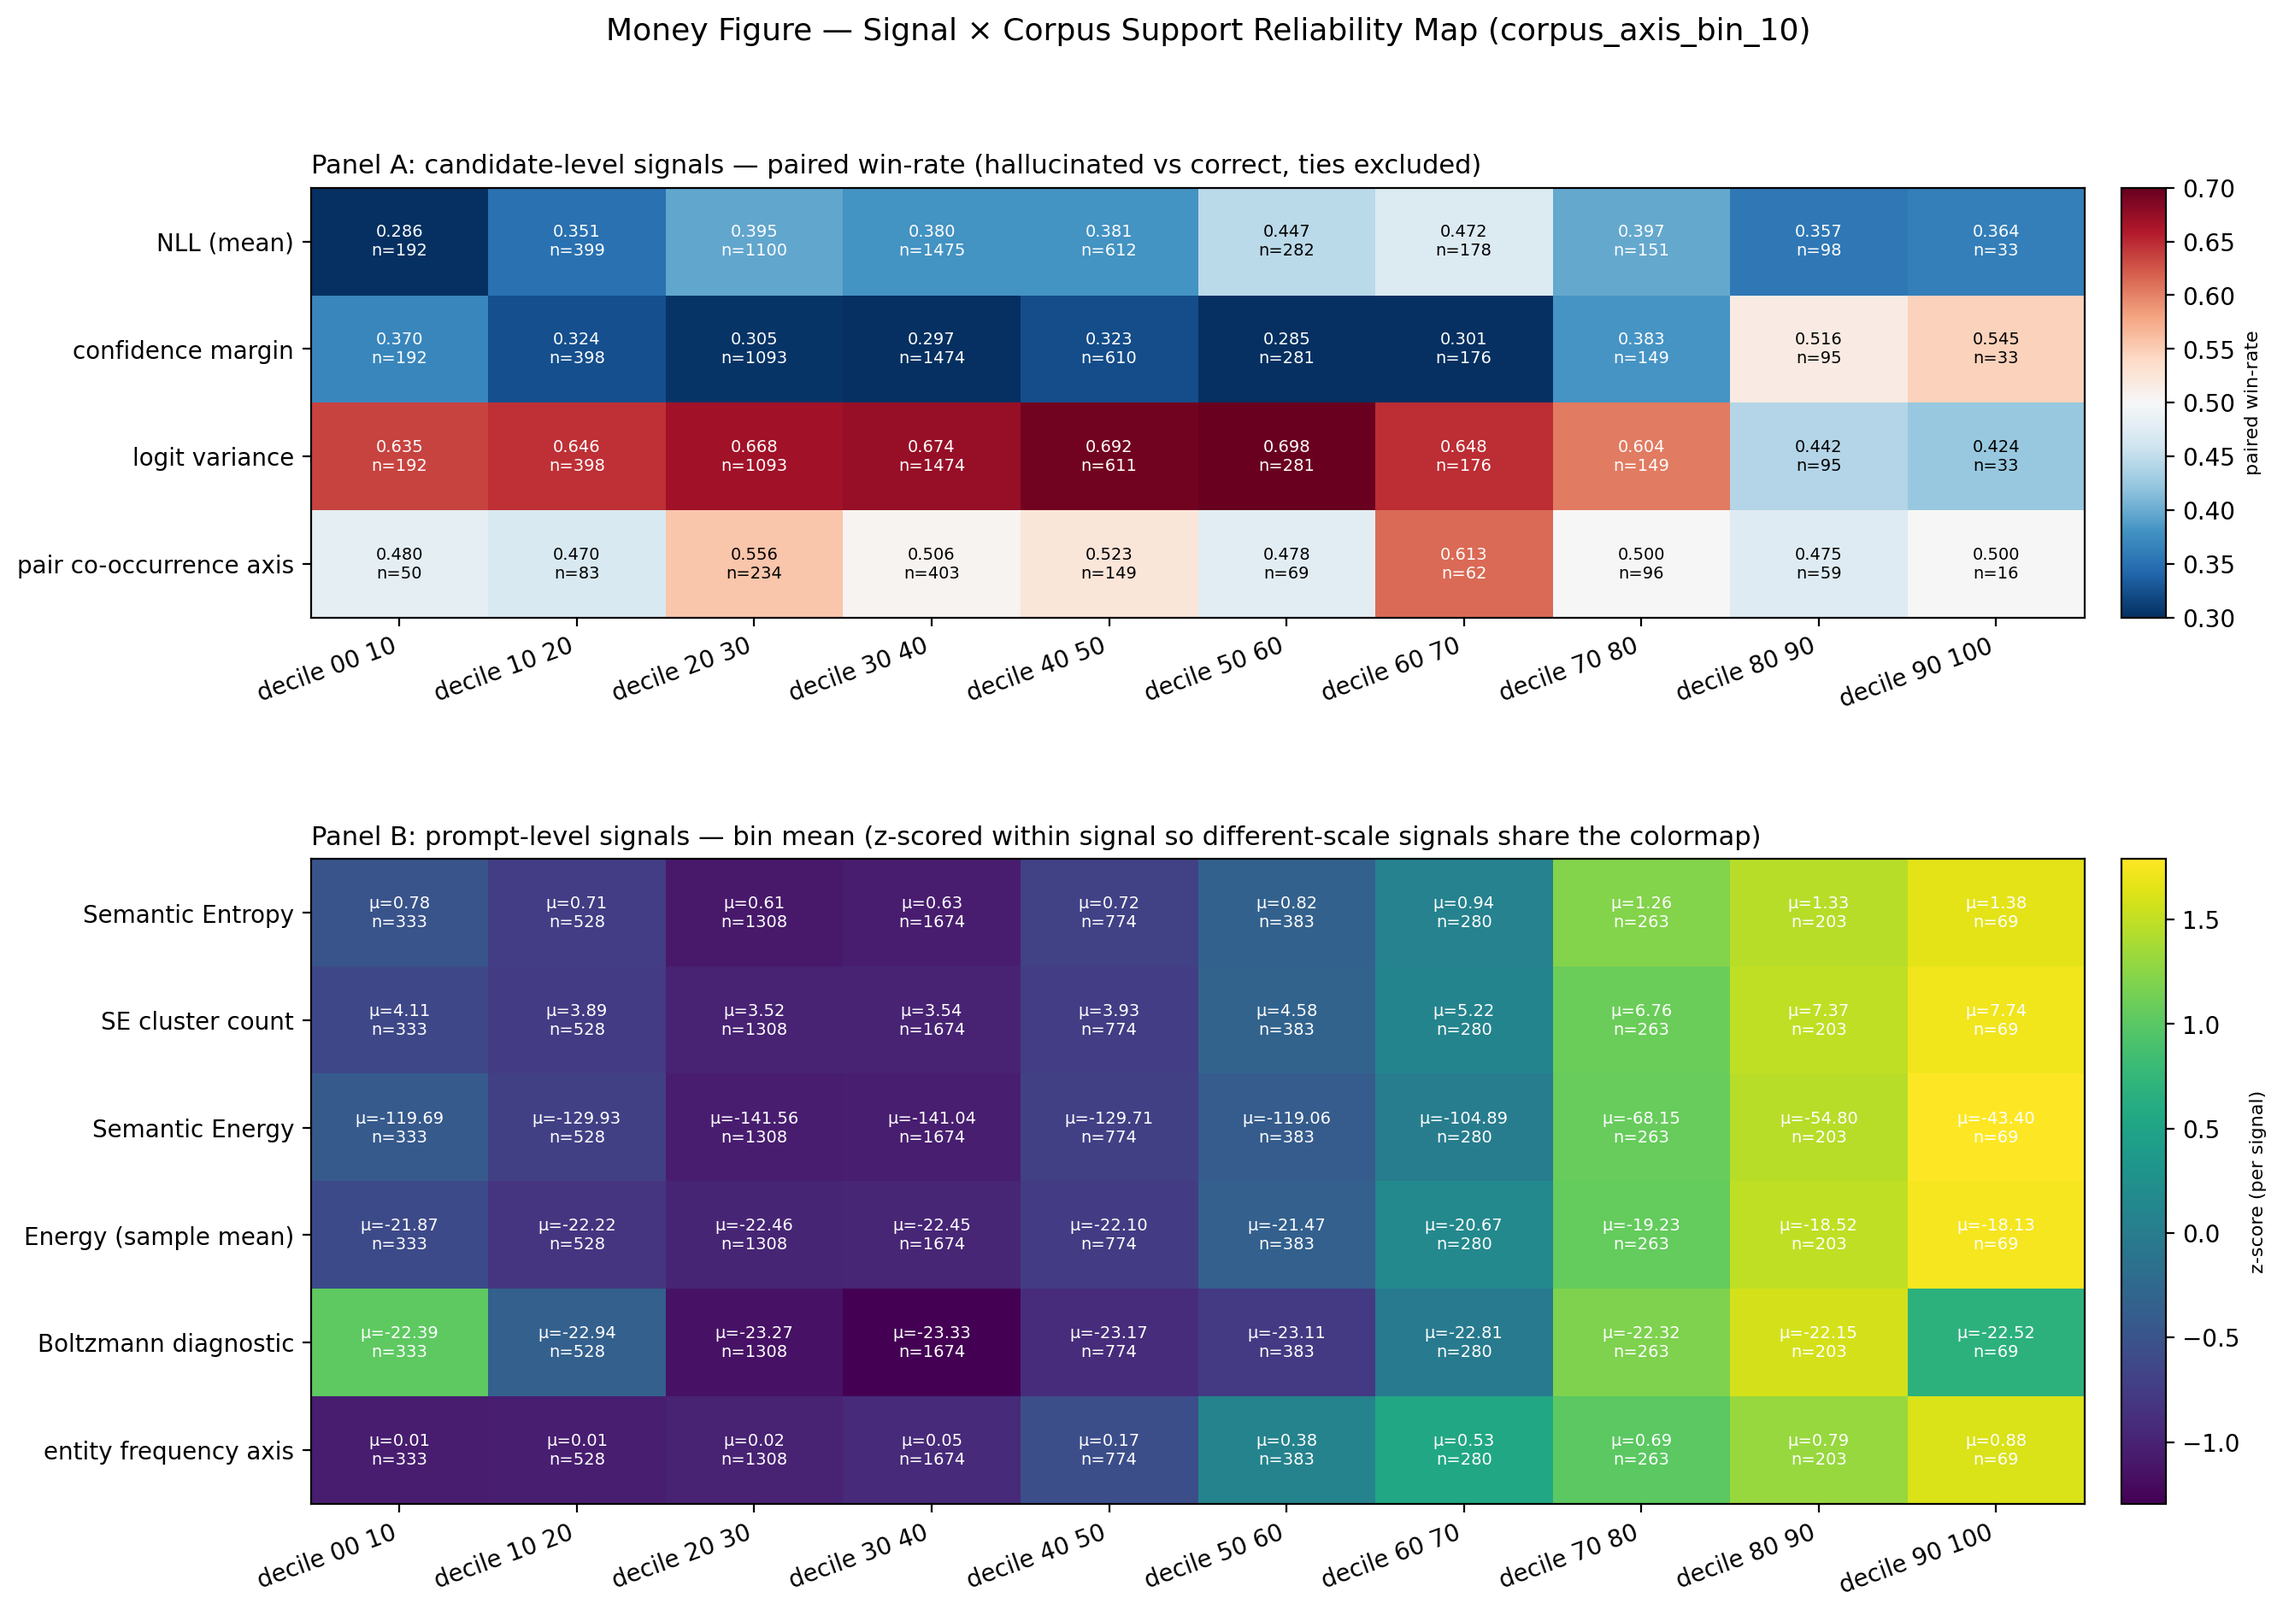
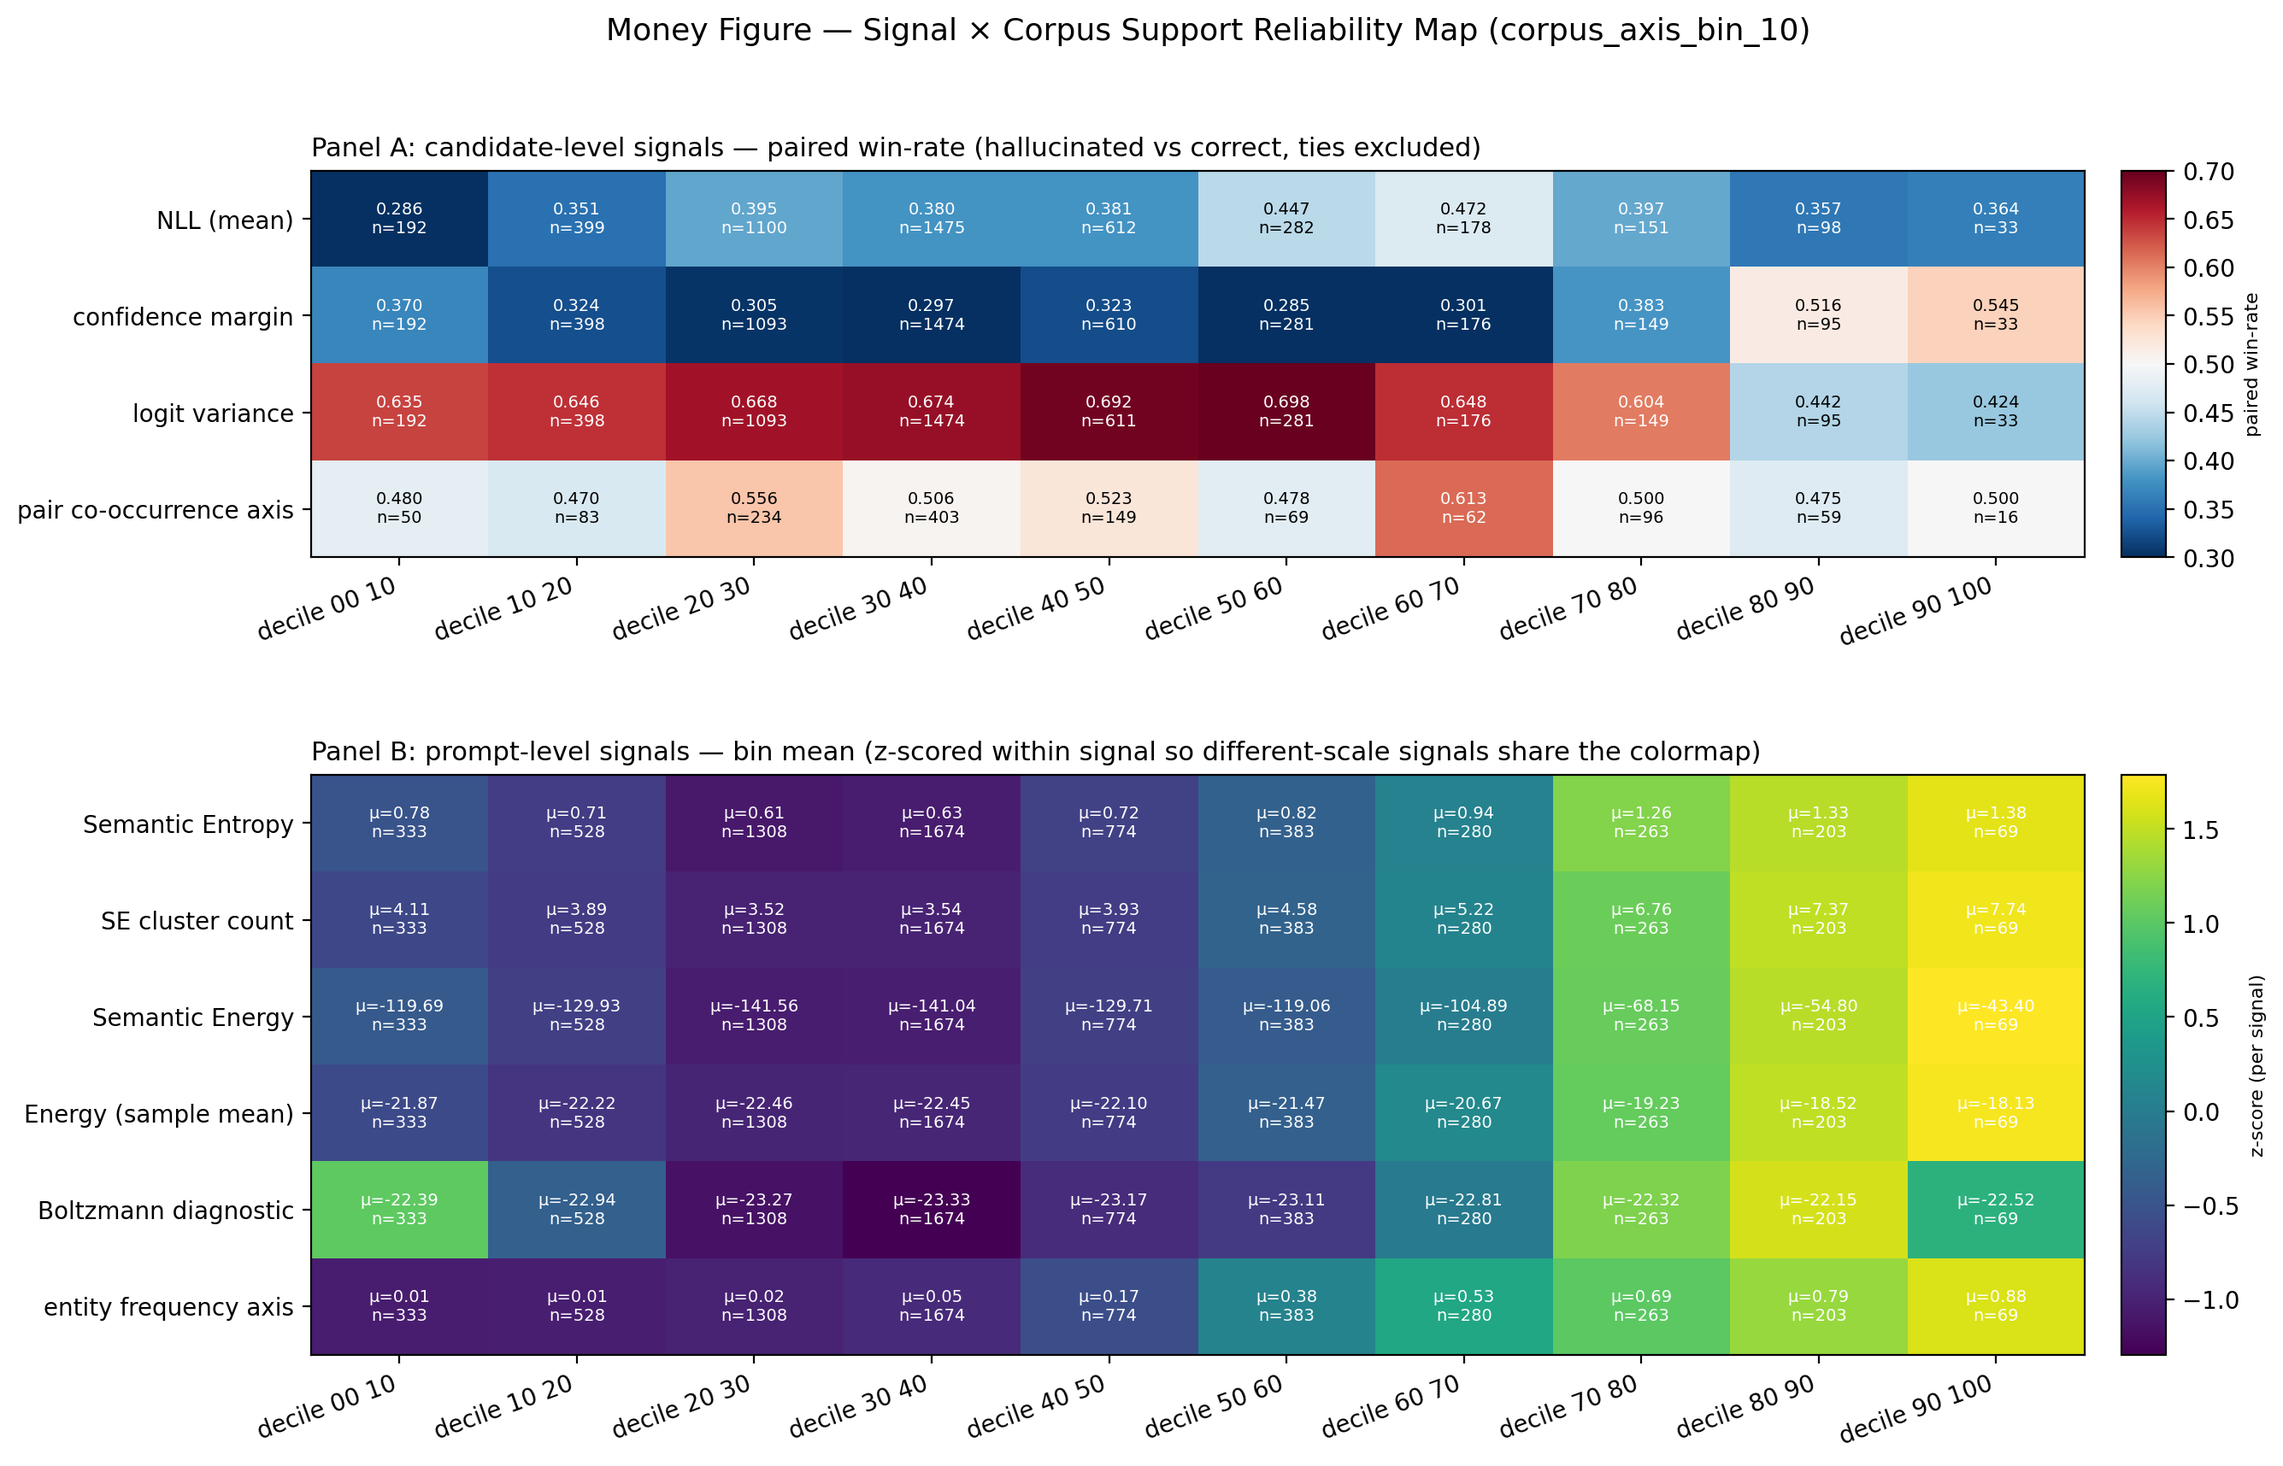
fix(labeling): TRAINABLE_FEATURE_ORDER + features dict에 corpus_axis_bin_10 propagation 누락 보정
S9 robustness가 corpus_axis_bin_10 을 extended_field 로 인식해도 features.parquet
에 컬럼이 없어 모든 decile 의 n=0 으로 떨어지던 버그. _build_trainable_features
의 명시적 dict와 TRAINABLE_FEATURE_ORDER 두 곳 모두 신규 bin 키 등록.

S7 → S8 → S9 재실행 후 10-bin sensitivity 가 실제 row 분포 (decile_00_10 n=549
~ decile_90_100 n=125, total 11,629) 와 의미 있는 method × decile metric 산출
확인. corpus-bin weighted fusion 이 decile 30-50 (n=5,683) sweet spot 에서 AUROC
0.60-0.61 / paired win 0.62-0.64 로 최강, sklearn GBM 은 decile_00_10 (corpus
가 거의 모르는 답) 에서만 1위, logit-diagnostic-only 는 decile 20-50 에서
가장 강하게 inverted (CHOKE pattern 더 분명) — 본문 figure 직접 인용 가능.

money_figure_10bin.png 재생성 (size 495KB → 490KB; 모든 decile 셀에 실제 win-rate
및 prompt-level mean 표기됨).

diff --git a/experiments/application/labeling.py b/experiments/application/labeling.py
@@ -118,6 +118,7 @@ TRAINABLE_FEATURE_ORDER = (
     "corpus_risk_only",
     "corpus_axis_bin",
     "corpus_axis_bin_5",
+    "corpus_axis_bin_10",
 )
 PROMPT_BROADCAST_FEATURES = (
     "semantic_entropy_nli_likelihood",
@@ -512,6 +513,7 @@ def _build_trainable_features(
         "corpus_risk_only": corpus_features.get("corpus_risk_only"),
         "corpus_axis_bin": corpus_features.get("corpus_axis_bin"),
         "corpus_axis_bin_5": corpus_features.get("corpus_axis_bin_5"),
+        "corpus_axis_bin_10": corpus_features.get("corpus_axis_bin_10"),
     }
     ordered = {key: trainable_features.get(key) for key in TRAINABLE_FEATURE_ORDER}
     leakage = sorted(FORBIDDEN_FEATURE_KEYS.intersection(ordered))
